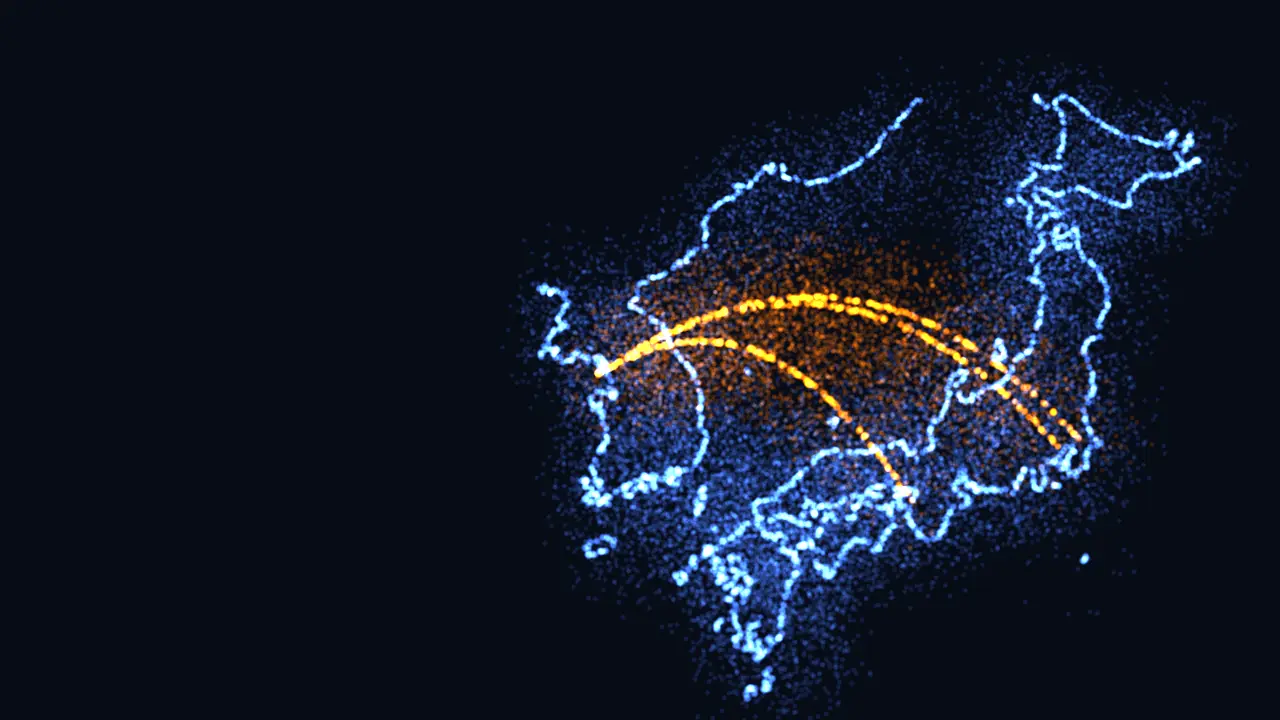
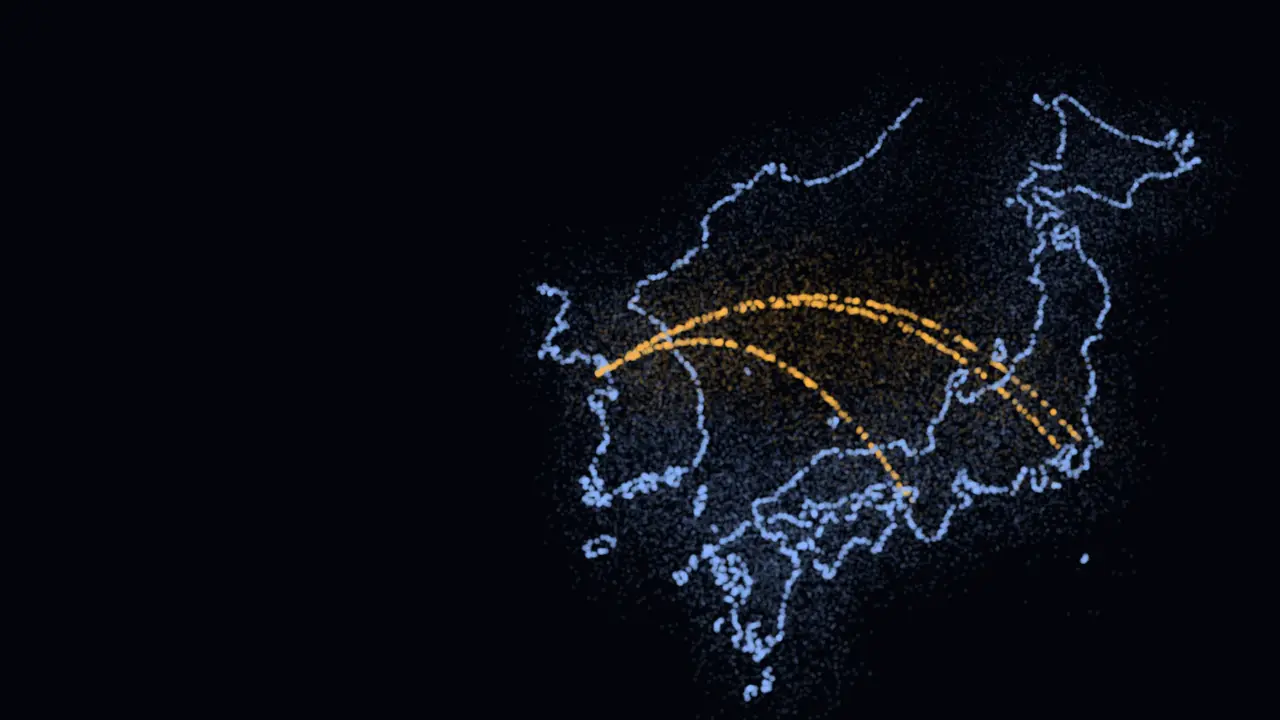
chore: recapture fallbacks; record plan 6-3

Changed region(s): [[0.4062, 0.0917, 0.9688, 1.0], [0.8438, 0.7639, 0.875, 0.7944]]

diff --git a/docs/superpowers/specs/2026-09-28-first-screen-polish-design.md b/docs/superpowers/specs/2026-09-28-first-screen-polish-design.md
@@ -44,7 +44,7 @@
 ### 2.1 그리기 방식
 
 - **지형·지도·차트 점은 보통 섞기**(겹쳐도 더 밝아지지 않음), **공항 불빛만 빛 더하기**를 유지한다(불빛 번짐이 공항 장면의 핵심이라).
-- 재질은 하나(`Points` 하나, 기존 구조 유지)이므로 섞는 방식을 점마다 정한다: 미리 곱한 알파(premultiplied) 섞기 — `src = ONE, dst = ONE_MINUS_SRC_ALPHA`로 두고, 조각 셰이더가 `vec4(color * a, a * (1.0 - vAir))`를 낸다. `vAir = 0`(지형)이면 보통 섞기, `vAir = 1`(공항 불빛)이면 빛 더하기와 같다. 공항 → 지형으로 넘어가는 동안 `vAir`가 줄며 자연스럽게 바뀌어, 재질의 섞기 방식을 도중에 바꿀 때 생기는 튐이 없다.
+- 재질은 하나(`Points` 하나, 기존 구조 유지)이므로 섞는 방식을 점마다 정한다: 미리 곱한 알파(premultiplied) 섞기 — `src = ONE, dst = ONE_MINUS_SRC_ALPHA`로 두고, 조각 셰이더가 `a = min(vAlpha * mix(disc, air, vAir), 1.0)`, `vec4(color * a, a * mix(1.0, a, vAir))`를 낸다(구현 때 바뀐 식 — 아래 「구현 결과」). `vAir = 0`(지형)이면 보통 섞기, `vAir = 1`(공항 불빛)이면 색은 빛 더하기와 같고 알파는 예전 빛 더하기처럼 a²가 쌓인다. 공항 → 지형으로 넘어가는 동안 `vAir`가 줄며 자연스럽게 바뀌어, 재질의 섞기 방식을 도중에 바꿀 때 생기는 튐이 없다.
 - 캔버스는 투명(`alpha: true`)이라 페이지 바탕과 합성된다. three의 기본(premultipliedAlpha) 합성과 맞는지 구현 때 캡처로 확인한다.
 
 ### 2.2 밝기·크기 (시안 D의 값)
@@ -58,13 +58,13 @@
 | 제거 레이어(차트 3) | 0.9 | 그대로 |
 
 - **거리 흐림**: 지형·지도 점(차트 점·공항 불빛 제외)의 알파에 곱한다.
-  `fade = clamp(0.79 − (d − dT) / 18, 0.22, 1)` — `d`는 카메라에서 점까지 거리(`−mv.z`), `dT`는 카메라에서 장면 목표점까지 거리(새 유니폼 `uFocusDist`, `CameraRig`가 매 프레임 넣는다). 목표점 거리 기준이라 멀리 물러난 장면(검증·데모·연락처)에서도 가까운 쪽 절반은 밝게 남는다. 상수는 ① 장면(`about`, dT ≈ 22.2)에서 시안 D와 같아지도록 맞춘 값이다. 구현 때 장면마다 캡처해 확인하고, 필요하면 상수만 조정한다
+  `fade = clamp(0.79 − (d − dT) / 18, 0.22, 1)` — `d`는 카메라에서 점까지 거리(`−mv.z`), `dT`는 카메라에서 장면 목표점까지 거리(새 유니폼 `uFocusDist`, `TerrainPoints`가 카메라~목표점 거리를 부드럽게 따라가며 매 프레임 넣는다 — 처음 설계 글에는 `CameraRig`로 적혀 있었다). 목표점 거리 기준이라 멀리 물러난 장면(검증·데모·연락처)에서도 가까운 쪽 절반은 밝게 남는다. 상수는 ① 장면(`about`, dT ≈ 22.2)에서 시안 D와 같아지도록 맞춘 값이다. 구현 때 장면마다 캡처해 확인하고, 필요하면 상수만 조정한다
 - 차트 점: 거리 흐림 없음. 섞기 방식이 보통 섞기가 되어 **2D 대체 그림(`draw2d.ts`, `source-over`)과 오히려 더 같아진다**
 - 공항 불빛: 밝기·번짐 그대로
 
 ## 3. 상단 바 E
 
-- **모양**(공항 시안 `.top`과 같은 결): 판·아래 선·둥근 버튼을 없앤다. 글자는 IBM Plex Mono 500, 11px, 자간 0.22em, `--mute` 색. 왼쪽 `SIGNAL`(글자색 `--tx`), 오른쪽 `KO · EN · JA` + `이력서`(없으면 `이력서 준비 중`, 흐리게). 지금 언어는 `--tx`, 나머지는 흐리게. 좌우 끝은 본문 `.wrap`(최대 1080px) 줄에 맞춘다 — 왼쪽 끝이 이름 `CHOI HALIM`과 같은 선
+- **모양**(공항 시안 `.top`과 같은 결): 판·아래 선·둥근 버튼을 없앤다. 글자는 IBM Plex Mono 500, 11px, 자간 0.22em, `--mute` 색. 왼쪽 `SIGNAL`(글자색 `--tx`), 오른쪽 `KO · EN · JA` + `이력서`(없으면 `이력서 준비 중`, 흐리게). 지금 언어는 `--tx`(굵기 600), 나머지는 `--mute`(처음 정한 흐린 색 알파 0.45는 대비 4.11:1로 AA 미달이라 바꿈). 좌우 끝은 본문 `.wrap`(최대 1080px) 줄에 맞춘다 — 왼쪽 끝이 이름 `CHOI HALIM`과 같은 선
 - **자리**: 흐름 안의 `sticky` 대신 화면 위에 겹쳐 뜨는 `fixed`로 바꾼다. 처음부터 그렇게 그려지므로 57px이 빠져도 CLS는 없다
 - **동작**
   - 맨 위(스크롤 80px 미만): 전부 보인다
@@ -76,7 +76,7 @@
   - 스크롤 방향 판정은 한 곳(작은 클라이언트 컴포넌트)에서 하고, `html`의 속성(예: `data-header="top|hidden|peek"`)만 바꾼다. 모양은 CSS가 맡는다. 초기 JS 예산(150KB)에 영향이 거의 없는 크기로
 - **결정 변경**: "항상 보이는 이력서 다운로드 버튼"(CLAUDE.md 페이지 구성) → **"맨 위와, 위로 올릴 때 나타나는 이력서 버튼"**. 사용자가 E를 고르며 받아들였다(2026-09-28). 연락처 섹션의 이력서 버튼은 그대로라 끝까지 읽은 사람은 늘 받을 수 있다
 - 휴대폰: 같은 동작. 375px에서 한 줄(기존 e2e 기준 72px 미만) 유지
-- `scroll-padding-top: 72px`은 상단 바가 더는 자리를 차지하지 않으므로 24px로 줄인다(옆 목차로 이동할 때 제목이 너무 아래 오지 않게)
+- `scroll-padding-top`은 72px 그대로 둔다. 처음에는 24px로 줄이려 했으나, 위로 올릴 때 나타나는 상단 바가 이동한 제목 위에 겹치고 휴대폰 `#project-h` 대비 검사가 깨져서 되돌렸다
 
 ## 4. 스크롤 표시
 
@@ -99,6 +99,40 @@
 - 점: 셰이더 단위 테스트는 없다(WebGL 결과는 단위 테스트로 못 잰다). 거리 흐림 식은 순수 함수로 빼 단위 테스트하고(셰이더에는 같은 상수를 문자열로 넣는다 — 와플 `FOCUS_DIM`과 같은 방식), 나머지는 장면별 캡처로 눈 확인(① 지형, ② 지도, ③·④ 차트, 공항 → 지형 전환)
 - `npm run fallbacks`로 대체 이미지 다시 캡처(바탕색·점이 바뀌었다). `npm run size` 통과
 - **OG 이미지**: 이번 계획 끝에서 `npm run og`로 다시 캡처할지 사용자에게 묻는다(계획 6-2에서 미룬 결정 — 배경·점이 바뀐 뒤에 정하는 게 맞다)
+
+## 구현 결과 (계획 6-3)
+
+브랜치 `plan-6-3-polish`, 2026-09-28~29.
+
+**점 그리기**
+- 섞기: 미리 곱한 알파(`ONE, ONE_MINUS_SRC_ALPHA`). 조각 셰이더는 `a = min(vAlpha * mix(disc, air, vAir), 1.0)`, 출력 `vec4(vColor * a, a * mix(1.0, a, vAir))`.
+  - 알파 채널은 보통 점이 a, 공항 불빛이 a². 설계의 `a * (1.0 - vAir)`는 공항 불빛 알파를 0으로 써서, 예전 빛 더하기(`SRC_ALPHA`)가 캔버스에 남기던 알파와 달라졌다. a²로 예전 동작을 되살렸다.
+  - `min(…, 1.0)`: 활주로 물결 꼭대기에서 공항 불빛 알파가 약 3.2까지 올라간다. 자르지 않으면 따뜻한 흰 불빛이 순백으로 타고, 알파 1 이상이 바탕을 0배로 만들어 번짐끼리 더해지지 않고 덮어쓴다. 1로 자르면 예전 출력(색 c·min(a,1), 알파 min(a,1)²)과 같다.
+- sRGB 색: 지형·지도·차트 점 색이 선형 값 그대로 그려져 디자인 토큰보다 어두운 파랑·주황이었다(예전에는 빛 더하기로 겹쳐 밝아져 드러나지 않았다). 꼭짓점 셰이더에서 선형 → sRGB로 바꾼다(`toSrgbTone`). 이제 토큰, 2D 대체 그림과 색이 맞는다. 공항 불빛 색은 이미 맞춰 둔 값이라 그대로 둔다.
+- `uFocusDist`는 `CameraRig`가 아니라 `TerrainPoints.tsx`가 넣는다. 카메라~장면 목표점 거리를 부드럽게 따라간 값이다.
+- `DEPTH_FADE`(base 0.79, span 18, min 0.22)는 바꾸지 않았다. 대체 이미지 캡처(첫 화면·지도·버블)와 실제 3D 화면에서 가까운 점은 밝고 먼 점은 흐려지며, 겹친 곳이 하얗게 타지 않는 것을 확인했다.
+- 3D 청크 247.2KB / 250KB.
+
+**상단 바**
+- 선택 안 된 언어 링크: 설계대로 흐린 색(알파 0.45)을 쓰면 대비가 4.11:1로 AA(4.5:1)에 못 미쳐 `--mute`(알파 0.72)로 바꿨다. 지금 언어는 `--tx`, 굵기 600. 이 링크의 화소 대비 검사를 `tests/e2e/terrain.spec.ts`에 더했다(맨 위, 첫 화면 하늘 위에서 잰다).
+- 누르는 자리 넓히기: 링크에 `padding: 8px 6px`, `margin: -2px -6px`. 보이는 간격은 그대로 두고 누를 수 있는 넓이만 늘렸다. 준비 중인 이력서 표시는 알파 0.5.
+- `scroll-padding-top`은 72px 그대로. 24px로 줄이면 휴대폰 `#project-h` 대비 검사가 깨지고, 위로 올릴 때 나타나는 상단 바가 이동한 제목 위에 겹친다.
+- `tests/e2e/header.spec.ts`는 움직임 줄이기로 돈다. 전환(0.4초) 중에 투명도를 읽으면 결과가 들쭉날쭉했다.
+- `/en/` 320px 폭에서는 상단 바가 두 줄이 된다("Resume coming soon"이 길어서). 겹치지 않아 그대로 둔다.
+
+**SCROLL 표시**
+- 휴대폰에서 언어 안내 띠(`.lang-hint`, 높이 50px)와 겹쳐서, 띠가 있으면(`body:has(.lang-hint)`) 그 위로 올린다.
+- 남은 것: 글자 크기를 2배쯤 키우면 띠가 두 줄이 되어 다시 겹칠 수 있다. 표시는 `aria-hidden` 장식이라 보기만의 문제다.
+
+**대체 이미지 다시 캡처**(`npm run fallbacks`, 1280×720 WebP)
+- 크기: hero 5,048 B(전 6,630), problem 38,436 B(전 57,716), bubble 54,956 B(전 73,770).
+- 바탕은 새 색(#02040A)이고, 지도·버블 점은 토큰 색(파랑 #8FB8FF 계열, 주황)이며 타지 않는다.
+- 첫 화면 hero.webp를 실제 3D 화면(`/?capture=hero`)과 비교했다. 주황 번짐은 거의 같다(화소 40,21,11 대 32,18,10). 작은 불빛은 조금 흐리고 색이 옅다. 빨간 표시등 167,34,51 대 231,17,17, 지평선 도시 불빛 가장 밝은 점 110,111,118 대 138,145,165. 캡처 스크립트가 `toDataURL`(알파를 되나눔)로 읽은 뒤 바탕을 깔기 때문이다. 깨져 보이지는 않아 고치지 않았다.
+- 움직임 줄이기에서 첫 화면 대체 그림은 `.wrap` 폭(1280px 화면에서 x 100~1180) 안에 놓이고, 좌우 12%를 마스크로 흐린다. 오른쪽 끝 밖(x > 1180) 위쪽이 조금 더 남색으로 보이는 띠는 새 이미지에서도 남는다(y=100에서 안쪽 3,6,13, 바깥 7,12,25). 이미지 때문이 아니라, 그림 밖으로 `body`의 오른쪽 위 방사형 그라데이션(`--bg2`)이 드러나기 때문이다. 차이가 작아 그대로 둔다.
+
+**검사**(`typecheck`·`test`·`build`·`size`·`e2e` 모두 통과)
+- 단위 테스트 33개 파일, 293개. e2e 182개 통과.
+- 초기 JS 141.7KB / 150KB(세 언어). 3D 청크 247.2KB / 250KB. 지형 데이터 52.1KB, 데모 21.6KB, 차트 9.9KB.
 
 ## 7. 범위 밖
 

diff --git a/CLAUDE.md b/CLAUDE.md
@@ -4,9 +4,9 @@ ML 엔지니어 포트폴리오 사이트. 사이트 브랜드는 **SIGNAL**.
 
 Awwwards / FWA 수준의 인터랙티브 디자인을 가진 **취업·이직용 개발자 포트폴리오**. 목표 포지션은 **ML 엔지니어**.
 
-## 현재 상태 (2026-09-28, 맥북에서 계획 6-1 구현 후 정리)
+## 현재 상태 (2026-09-29, 맥북에서 계획 6-3 구현 후 정리)
 
-계획 1·2·3·4-1·4-2·5-1·5-2가 모두 main에 병합되어 운영 사이트에 배포돼 있다(5-2는 2026-09-28 병합). 남은 것은 5-3(인터랙션)과 공개 전 준비.
+계획 1·2·3·4-1·4-2·5-1·5-2·6-1·6-2가 모두 main에 병합되어 운영 사이트에 배포돼 있다(6-2는 PR #8, 2026-09-28 병합). 6-3(첫 화면 다듬기)은 브랜치 `plan-6-3-polish`에 구현 완료(푸시 전). 남은 것은 5-3(인터랙션)과 공개 전 준비.
 
 - 운영: https://signal-ml-portfolio.vercel.app (아직 `noindex` — 공개 전환 전)
 - GitHub: https://github.com/hyde0395/signal-ml-portfolio (공개), main = 운영, PR = Vercel 미리보기
@@ -22,7 +22,8 @@ Awwwards / FWA 수준의 인터랙티브 디자인을 가진 **취업·이직용
 | 5-1 구조 개편 | 섹션 목록, ①~④ 새 섹션, 플립 보드, 옆 목차, 개인 소개 이동 | `2026-09-25-plan-5-1-structure.md` | ✅ PR #5 (2026-09-27 병합·배포) |
 | 5-2 차트 | ② 두 화면·판 없는 보드, ③ 점 와플, ④ 점 달력·구간별 벌떼·불확실성 구름, 배경 점 → 차트 | `2026-09-27-plan-5-2-charts.md` | ✅ PR #6 (2026-09-28 병합·배포) |
 | 6-1 배치 정리 | 글·차트 자막 방식, 글 뒤 판 제거(장면 구도·비네트), 와플 설명 한 줄 | `2026-09-28-plan-6-1-layout.md` | ✅ PR #7 (2026-09-28 병합·배포) |
-| 6-2 밤의 공항 | 공항 첫 화면(불빛 → 지형), NOW BOARDING 로딩 | `2026-09-28-plan-6-2-night-airport.md` | ✅ (PR 대기) |
+| 6-2 밤의 공항 | 공항 첫 화면(불빛 → 지형), NOW BOARDING 로딩 | `2026-09-28-plan-6-2-night-airport.md` | ✅ PR #8 (2026-09-28 병합·배포) |
+| 6-3 첫 화면 다듬기 | 배경 #02040A, 점 D(안 타게·거리 흐림·sRGB 색), 상단 바 E(내리면 숨김·올리면 오른쪽), SCROLL 표시 | `2026-09-28-plan-6-3-polish.md` | ✅ (PR 대기) |
 
 계획 5-3(인터랙션)이 남았다. 설계: `docs/superpowers/specs/2026-09-25-page-restructure-design.md`
 
@@ -32,10 +33,11 @@ Awwwards / FWA 수준의 인터랙티브 디자인을 가진 **취업·이직용
 
 ## 다음 세션에서 할 일 (순서대로)
 
-0. **★ 계획 6-2(밤의 공항)는 브랜치 `plan-6-2-airport`에 구현·최종 검토 수정까지 완료(푸시 전) — 푸시 → PR·CI → 미리보기에서 사용자 확인 → main 병합.** 6-1은 PR #7로 병합·배포됨
-   - 설계: `docs/superpowers/specs/2026-09-28-night-airport-and-layout-design.md`(밤의 공항 첫 화면 + 배치 정리, 2026-09-28 사용자 승인). 시안 `docs/superpowers/mockups/2026-09-28/`. 구현 결과는 설계 문서 "구현 결과 (계획 6-1)"·"구현 결과 (계획 6-2)"
-   - 6-2 PR 병합 전 사용자가 정할 것: **OG 이미지를 새 공항 첫 화면으로 바꿀지**(설계 §4.6·8 — `npm run og`는 이번에 돌리지 않았다). 정해지면 `npm run og` 실행 후 커밋
-   - 다음: 6-2 병합 뒤 **계획 5-3(인터랙션)** 계획서를 `superpowers:writing-plans`로 쓴다(아래 1번)
+0. **★ 계획 6-3(첫 화면 다듬기)은 브랜치 `plan-6-3-polish`에 구현·검토 완료(푸시 전) — 푸시 → PR·CI → 미리보기에서 사용자 확인 → main 병합.** 6-2는 PR #8로 병합·배포됨
+   - 설계: `docs/superpowers/specs/2026-09-28-first-screen-polish-design.md`(2026-09-28 사용자 승인). 시안 `docs/superpowers/mockups/2026-09-28-polish/`. 구현 결과는 설계 문서 "구현 결과 (계획 6-3)"
+   - 병합 전 사용자에게 물을 것: **OG 이미지를 새 첫 화면으로 다시 찍을지**(6-2에서 미룬 결정, 배경·점이 바뀐 지금 정한다). 정해지면 `npm run og` 실행 후 커밋
+   - 알려진 작은 것: `/en/` 320px 폭에서 상단 바가 두 줄, 글자 크기 2배쯤에서 언어 안내 띠와 SCROLL 표시가 겹칠 수 있음, `hero.webp`의 작은 불빛이 실제 3D보다 조금 흐림(캡처 스크립트의 `toDataURL` 탓)
+   - 다음: 6-3 병합 뒤 **계획 5-3(인터랙션)** 계획서를 `superpowers:writing-plans`로 쓴다(아래 1번)
    - `board.spec`의 "화면에 들어오면 넘어가고…" e2e는 main에서도 가끔 실패한다(로컬 6회 중 3회). 고칠 거리로 남겨 둠
 1. **계획 5-3 계획서 작성** (`superpowers:writing-plans`, 실행은 subagent-driven-development — 사용자가 5-1·5-2에서 고름) — 설계 §4.1:
    - 점이 마우스에 반응(모든 장면, 휴대폰은 누른 곳에서 물결 한 번), 차트에서는 미는 거리를 줄임
@@ -89,7 +91,7 @@ Awwwards / FWA 수준의 인터랙티브 디자인을 가진 **취업·이직용
 ### 페이지 구성 (한 페이지 스크롤, 2026-09-25 개편 승인)
 
 0. 로딩 화면: 가운데 큰 숫자 `NOW BOARDING` → 행 수 플립 카운터 → 호박색 진행선 → `ROWS`(계획 6-2, 설계 2026-09-28 §4.3)
-- 첫 화면: 밤의 공항 — 스크롤하면 카메라가 터미널 창가에서 활주로 가까이 내려앉고, ①로 넘어가며 모든 불빛이 가격 지형 점으로 모인다. 이름, `ML ENGINEER`, 키워드, 오른쪽 아래에 공항 좌표·노선 메타 줄(계획 6-2, 설계 2026-09-28 §4)
+- 첫 화면: 밤의 공항 — 스크롤하면 카메라가 터미널 창가에서 활주로 가까이 내려앉고, ①로 넘어가며 모든 불빛이 가격 지형 점으로 모인다. 이름, `ML ENGINEER`, 키워드, 오른쪽 아래에 공항 좌표·노선 메타 줄(계획 6-2, 설계 2026-09-28 §4), 가운데 아래 `SCROLL` 표시(계획 6-3)
 1. `01 — PROJECT`: 큰 질문 + 설명 + 숫자 4개(노선·수집 개월·피처·예측 구간)
 2. `02 — DATA COLLECTION`: 두 화면 — (1) 수집 라인 4단계 + 한·일 지도, (2) 판 없는 공항 플립 보드(왕복 3줄 + TOTAL, 약 2초·튕김 — 모션 규칙 예외) + 흐려진 지도
 3. `03 — FEATURES`: 피처 33개, 6개 그룹을 점 와플로(5-2에서 배경 점이 와플로 모임, 5-3에서 눌러 SHAP 벌떼로 펼치기)
@@ -97,12 +99,12 @@ Awwwards / FWA 수준의 인터랙티브 디자인을 가진 **취업·이직용
 - 데모, 연락처(탑승권 카드 + 개인 소개)
 - 섹션 목록 `src/lib/sections.ts` 한 곳에서 순서·번호·옆 목차를 만든다(섹션 추가 예정, 무엇일지는 미정)
 
-- 항상 보이는 **이력서 다운로드** 버튼과 언어 전환 (30초 요약은 2026-09-23 사용자 요청으로 제거, 휴대폰 메뉴 버튼도 없음)
+- 상단 바의 언어 전환과 **이력서 다운로드** 버튼 — 판 없는 작은 글자 줄, 맨 위와 위로 올릴 때 보이고 내리면 숨는다(계획 6-3, 2026-09-28 사용자 선택. 연락처의 이력서 버튼은 늘 있다) (30초 요약은 2026-09-23 사용자 요청으로 제거, 휴대폰 메뉴 버튼도 없음)
 - `prefers-reduced-motion`이나 저사양 모바일에서는 3D 대신 정적 이미지로 대체하고, 콘텐츠는 모두 읽을 수 있게 유지
 
 ### 비주얼 시스템 (승인됨)
 
-- **배경과 색 (A. Midnight Signal)**: `#070B16`(배경), `#13203A`(배경 그라데이션), `#8FB8FF`(데이터 점), `#EEF3FF`(텍스트)
+- **배경과 색 (A. Midnight Signal)**: `#02040A`(배경), `#0B1426`(배경 그라데이션) — 계획 6-3에서 첫 화면 하늘과 맞춰 어둡게(2026-09-28, 전에는 `#070B16`·`#13203A`), `#8FB8FF`(데이터 점), `#EEF3FF`(텍스트)
 - **포인트 색**: 호박색 `#FFB547` (공휴일 봉우리, 플립 글자판, 강조 수치)
 - **글꼴 (B)**: 제목 Space Grotesk Bold 대문자(자간 -0.03em), 본문 Pretendard, 수치와 글자판 IBM Plex Mono
 - **모션 규칙**
